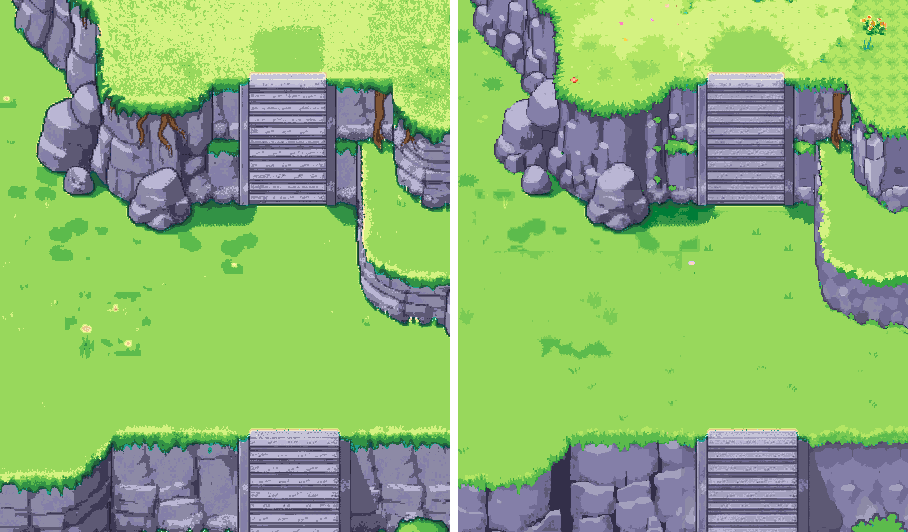
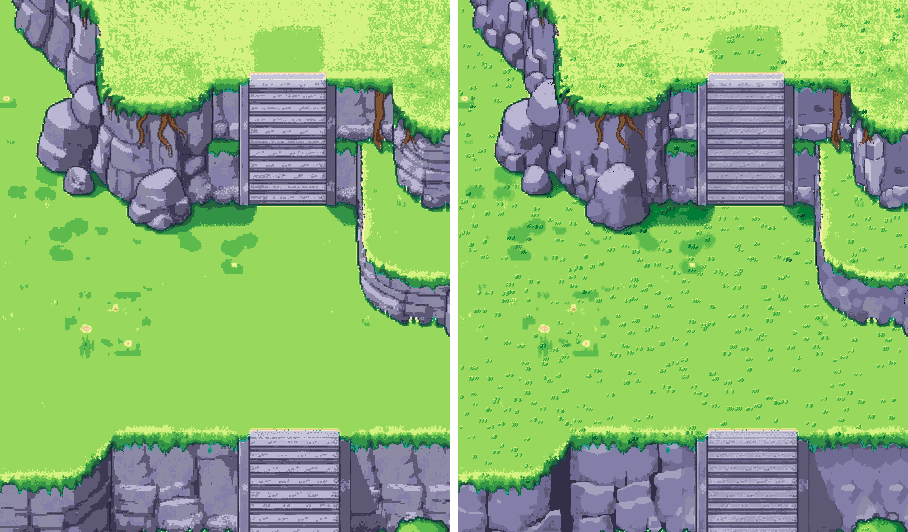
Companion terrain: the mockup's hand pass on the extended palette

diff --git a/art/companion-48/tools/terrain-hand-pass.py b/art/companion-48/tools/terrain-hand-pass.py
@@ -1,0 +1,97 @@
+"""The hand pass on a mockup screen, on the extended palette: the painting is the base, the pixel pass keeps only what it did
+better, and grass, water and shore get drawn detail.
+
+  base     the approved painting on the 77 (the re-quantise): its roots, posts, lawn and shoreline as painted
+  rock     where both the pass and the painting are rock, the pass's pixel (its shading, borders and lit edges)
+  wood     where both are wood or earth inside the bridge's box, the pass's planks
+  restore  named boxes where the painting stays whatever the pass did (a broken post, say)
+  grass    tuft clusters on whole grass (every pixel within 3 px is grass): three to six blades, each a dark outline, a body one
+           step under the ground it stands on and a tip two steps over it; seeded on a 13 px jittered grid, no tile period
+  water    a bank shadow (two steps darker) on the 1-3 px of water under every bank; ripple highlights (a 3-6 px dash two
+           steps lighter with one brighter pixel) on open water 7 px or more from any bank, seeded on a 19 px grid
+  shore    on sand and grass within 4 px of the water: a light wet line at the water, a mid sand band, a dark edge where it meets
+           the grass; never on rock, wood or the bridge
+usage: python3 -I terrain-hand-pass.py PASS.png PAINTING_EXT.png PALETTE_JSON OUT.png --bridge x0,y0,x1,y1 [--restore x0,y0,x1,y1 ...]"""
+import json, sys
+import numpy as np
+from PIL import Image
+args = sys.argv[1:]
+pas, pnt, palj, out = args[:4]
+def opt_boxes(k): return [tuple(map(int, args[i + 1].split(","))) for i, a in enumerate(args) if a == k]
+bridge = opt_boxes("--bridge"); restore = opt_boxes("--restore")
+cols = json.load(open(palj))["colours"]; PAL = np.array([[int(c["hex"][k:k + 2], 16) for k in (1, 3, 5)] for c in cols])
+RAMP = {"G": "grass", "grass": "grass", "N": "rock", "K": "rock", "rock": "rock", "B": "water", "water": "water", "W": "earth", "earth": "earth"}
+ramp_of = np.array([RAMP.get(c["ramp"], "other") for c in cols])
+lum = 0.2126 * PAL[:, 0] + 0.7152 * PAL[:, 1] + 0.0722 * PAL[:, 2]
+ORDER = {m: sorted(np.where(ramp_of == m)[0], key=lambda i: lum[i]) for m in ("grass", "rock", "water", "earth")}
+def step(i, k):
+    m = ramp_of[i]
+    if m not in ORDER: return i
+    o = ORDER[m]; j = o.index(i); return o[max(0, min(len(o) - 1, j + k))]
+STEP = np.vectorize(step)
+def to_idx(p):
+    a = np.asarray(Image.open(p).convert("RGB")).astype(int)
+    return (((a.reshape(-1, 1, 3) - PAL[None]) ** 2).sum(-1)).argmin(1).reshape(a.shape[:2])
+A, B = to_idx(pas), to_idx(pnt); H, W = B.shape
+rA, rB = ramp_of[A], ramp_of[B]
+img = B.copy()
+img = np.where((rA == "rock") & (rB == "rock"), A, img)                                   # the pass's rock
+inbr = np.zeros((H, W), bool)
+for x0, y0, x1, y1 in bridge: inbr[y0:y1, x0:x1] = True
+img = np.where(inbr & (rA == "earth") & (rB == "earth"), A, img)                          # the pass's planks
+for x0, y0, x1, y1 in restore: img[y0:y1, x0:x1] = B[y0:y1, x0:x1]
+R = ramp_of[img]
+
+def grow(m, n):
+    m = m.copy()
+    for _ in range(n):
+        g = m.copy(); g[1:] |= m[:-1]; g[:-1] |= m[1:]; g[:, 1:] |= m[:, :-1]; g[:, :-1] |= m[:, 1:]; m = g
+    return m
+def dist(m, n):
+    """distance (4-connected, up to n) from the mask m; n+1 beyond"""
+    d = np.full(m.shape, n + 1); cur = m.copy(); d[cur] = 0
+    for k in range(1, n + 1):
+        nxt = grow(cur, 1); d[nxt & ~cur] = k; cur = nxt
+    return d
+water = R == "water"
+dw = dist(water, 8)          # land pixels' distance from the water
+dl = dist(~water, 8)         # water pixels' distance from the land
+# the water: a bank shadow under every bank
+bank = water & (dl <= 3) & ~inbr
+img[bank] = STEP(STEP(img[bank], -1), -1) if bank.any() else img[bank]
+# the shore: wet line, sand, dark edge, on sand or grass only
+shoreable = ~water & np.isin(R, ["earth", "grass"]) & ~grow(inbr, 2)
+sand = [i for i in ORDER["earth"] if lum[i] > 150]; sand_mid, sand_hi = sand[len(sand) // 3], sand[-1]
+edge = ORDER["earth"][1]
+img[shoreable & (dw == 1)] = sand_hi
+img[shoreable & ((dw == 2) | (dw == 3))] = sand_mid
+img[shoreable & (dw == 4)] = edge
+R = ramp_of[img]
+# ripple highlights on open water
+rng = np.random.RandomState(1907)
+for gy in range(0, H, 19):
+    for gx in range(0, W, 19):
+        if rng.rand() > .55: continue
+        y, x, ln = gy + rng.randint(19), gx + rng.randint(19), rng.randint(3, 7)
+        if y >= H or x + ln >= W or not (water[y, x:x + ln].all() and (dl[y, x:x + ln] >= 7).all()) or inbr[y, x:x + ln].any(): continue
+        for k in range(ln): img[y, x + k] = step(step(img[y, x + k], 1), 1)
+        img[y, x + ln // 2] = step(img[y, x + ln // 2], 2)
+# tuft clusters on whole grass
+whole = R == "grass"
+for _ in range(3): whole = whole & np.roll(whole, 1, 0) & np.roll(whole, -1, 0) & np.roll(whole, 1, 1) & np.roll(whole, -1, 1)
+for gy in range(0, H, 13):
+    for gx in range(0, W, 13):
+        if rng.rand() > .6: continue
+        cy, cx = gy + rng.randint(13), gx + rng.randint(13)
+        if cy + 1 >= H or cx + 4 >= W or cy < 6 or not whole[cy, cx]: continue
+        base = img[cy, cx]
+        for b in range(rng.randint(3, 7)):
+            x = cx + rng.randint(-3, 4); h = rng.randint(2, 5); lean = rng.choice([-1, 0, 0, 1])
+            if not (0 < x < W - 1) or not whole[cy, x]: continue
+            for k in range(h):
+                y = cy - k; xx = x + (lean if k == h - 1 else 0)
+                if not (0 <= xx < W) or not whole[y, xx]: break
+                img[y, xx] = step(base, 2) if k == h - 1 else step(base, -1)              # the lit tip over the body
+                if xx + 1 < W and whole[y, xx + 1] and k < h - 1: img[y, xx + 1] = step(base, -3)   # the dark outline on the shaded side
+            img[cy + 1, x] = step(base, -3)                                                # the root's shadow
+Image.fromarray(PAL[img].astype(np.uint8)).save(out); print(out, "colours", len(np.unique(img)))

diff --git a/art/companion-48/terrain/grass/mockup/px/README.md b/art/companion-48/terrain/grass/mockup/px/README.md
@@ -5,7 +5,7 @@
 ![The cliffs: the 48 (left) and the pixel pass, cleaned (right), at 1×](beside-cliffs-1x.png)
 ![The pond: the 48 (left) and the pixel pass, cleaned (right), at 1×](beside-pond-1x.png)
 
-*Each screen at 1×: on the left, the approved painting on the 48 colours; on the right, the pixel pass on the 77, cleaned. The 3× versions are `screen-*-clean-3x.png`.*
+*Each screen at 1×: on the left, the approved painting on the 48 colours; on the right, the hand pass on the 77 (`screen-*-hand-1x.png`). The 3× versions are `screen-*-hand-3x.png`. The earlier cleaned pass (`screen-*-clean-*`) is kept for the record.*
 
 - **The pixel pass.** Retro Diffusion `rd_plus__topdown_map` redrew each screen in six overlapping 256 px tiles.
   - Each tile was made img2img from the painting at strength 0.45, with one seed, and the 77-colour proposal (`../../../../palette/extended/palette-ext-strip.png`) as its palette.
@@ -21,3 +21,12 @@
   - a hard-edged shadow rectangle was drawn.
   Everywhere else the pass stays: the boulders' shading and borders, the cliff in the water, the planks.
 - **Checks.** Both screens use only the 77 colours.
+
+## The hand pass (`tools/terrain-hand-pass.py`), after the programme lead's review of the cleaned pass
+
+- **Base.** The painting on the 77 is the base, with its roots, posts, lawn and shoreline as painted.
+- **What the pixel pass keeps.** Only where it did better: rock where both are rock, and planks inside the bridge's box. Named boxes keep the painting whatever the pass did: the stairs, the posts and the foam at the cliff's foot.
+- **Grass.** Tuft clusters on whole grass: three to six blades, each with a dark outline, a body a step under the ground and a lit tip two steps over it. They are seeded on a 13 px jittered grid.
+- **Water.** A bank shadow two steps darker on the 1–3 px under every bank. Ripple highlights on open water: a 3–6 px dash two steps lighter, with one brighter pixel.
+- **Shore.** A light wet line at the water, a mid sand band and a dark edge against the grass. Never on rock, wood or the bridge.
+- **Checks.** Both screens use only the 77 colours: the cliffs 43, the pond 61.
